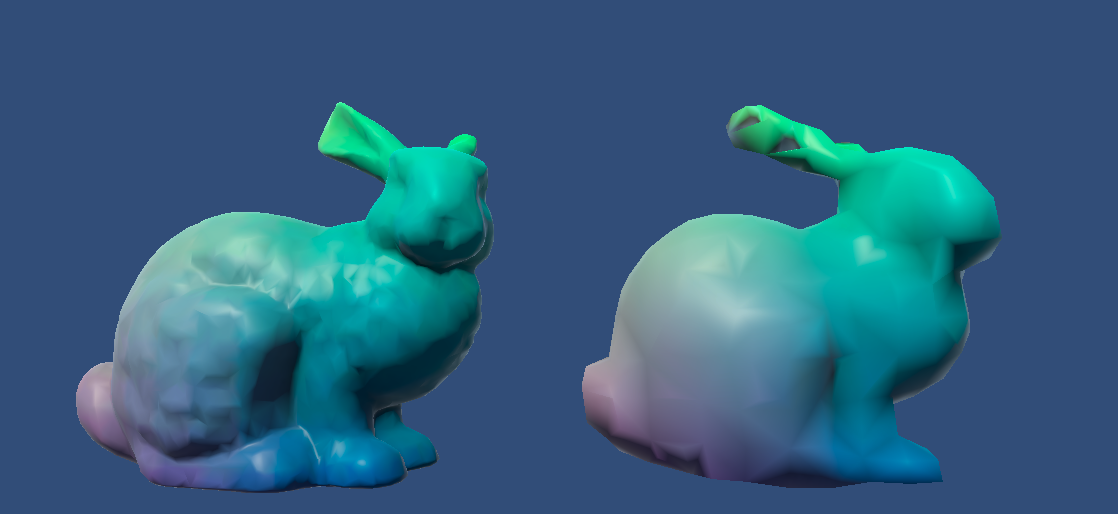
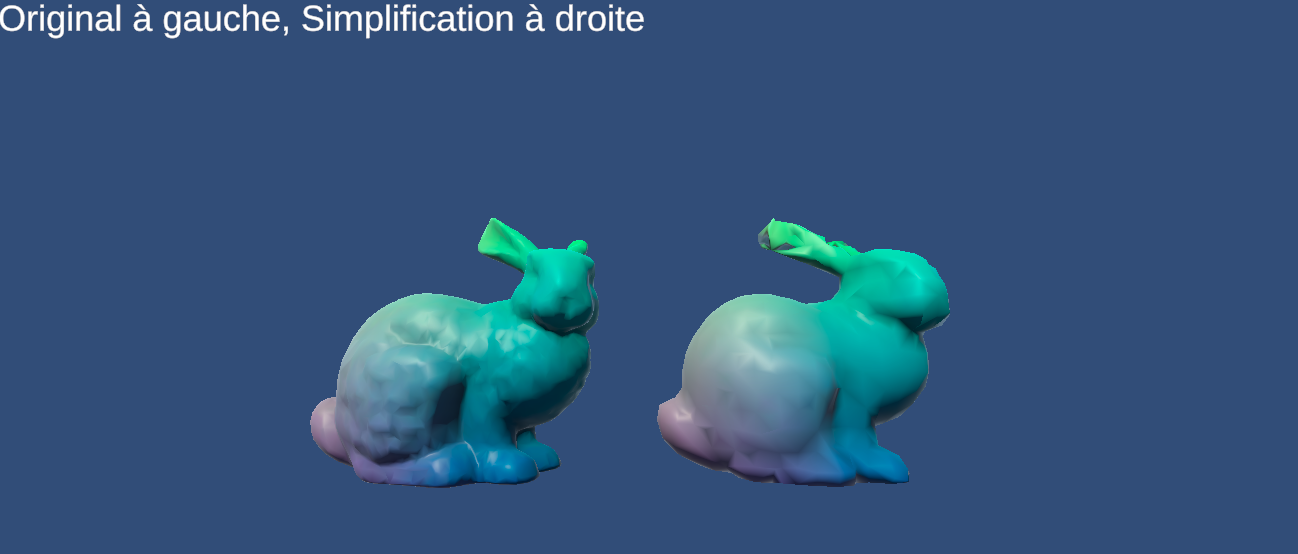
Updating readme

diff --git a/README.md b/README.md
@@ -31,3 +31,13 @@ The bounds of the tree are the bounds of the scene.
 Cubes can be painted using the mouse (following a raycast), the ones changed/places are represented as red.
 
 ![ImageTp3](Renders/TP3.png)
+
+## TP4
+Scripts : (`*.cs`)
+- OFFMeshClustering
+
+Loads a mesh from on OFF file at the specified path.
+Renders the mesh using a material showing the cubes u,v,w coordinate range.
+Simplifies the mesh in a (given) object's mesh with the same material showing.
+
+![ImageTP4](Render/TP4.png)
